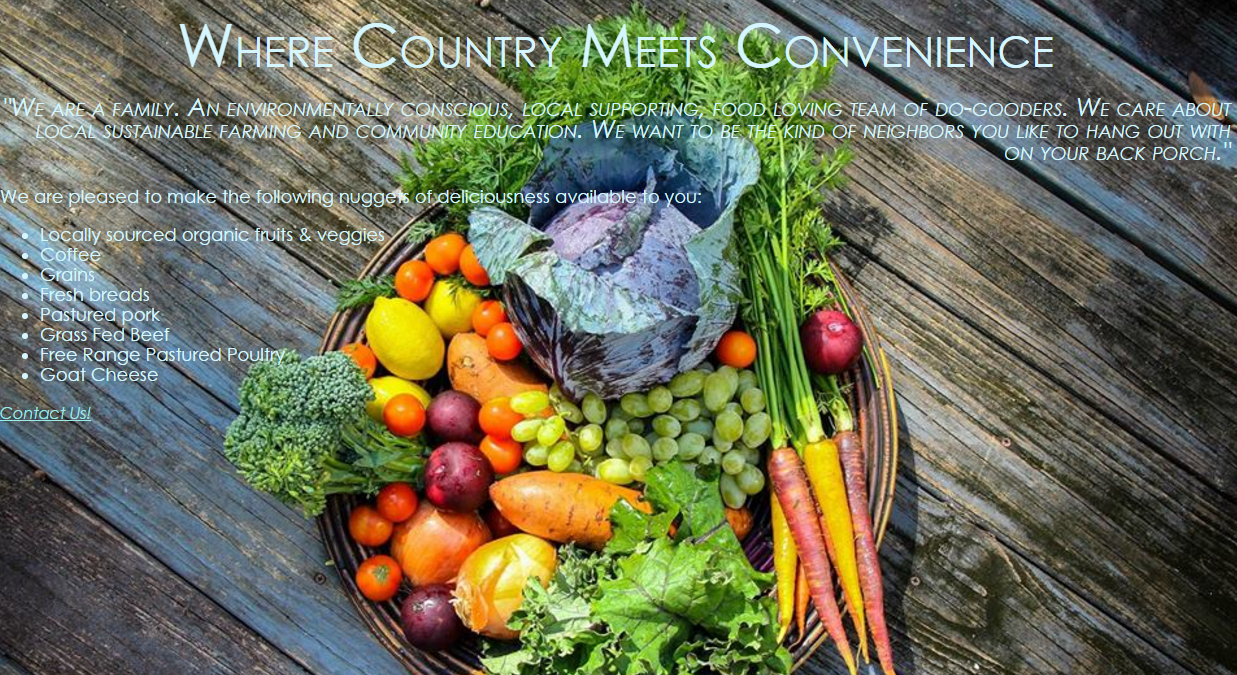
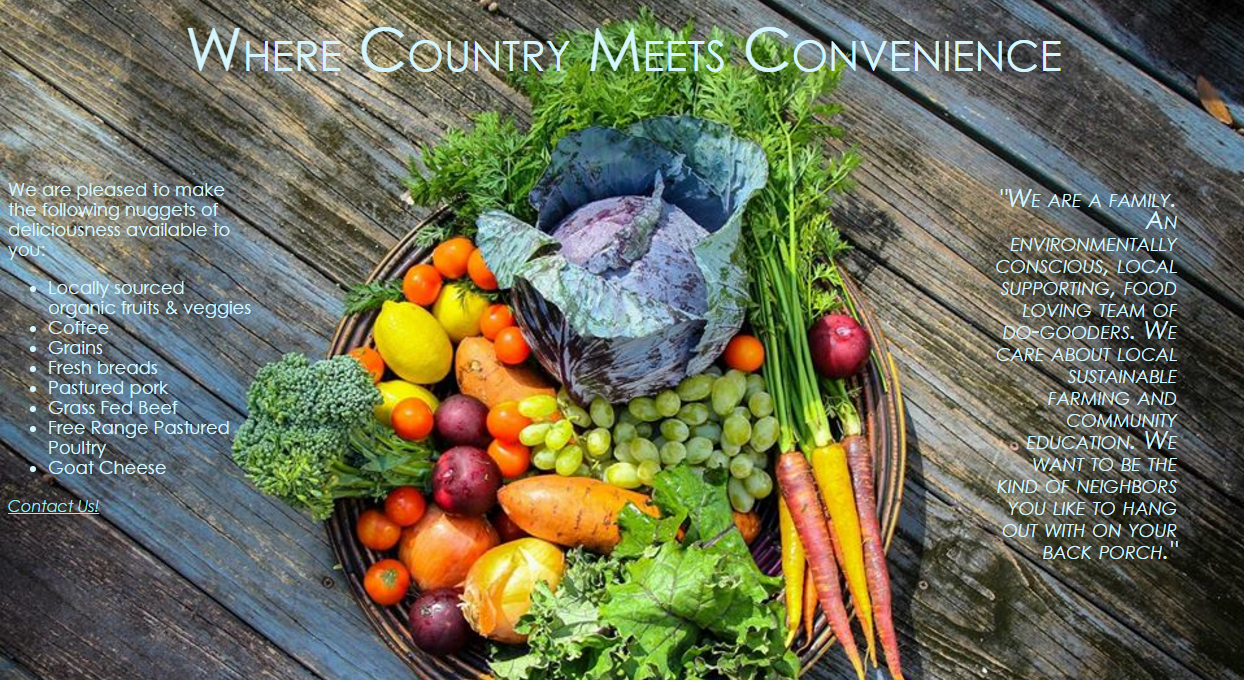
Formatting changes v.3

diff --git a/unit_3/css/style.css b/unit_3/css/style.css
@@ -8,7 +8,7 @@ body {
 h1 {
 	text-align: center;
 	font-family: "Century Gothic", sans-serif;
-	font-size: 60px;
+	font-size: 50px;
 	font-style: normal;
 	font-variant: small-caps;
 	font-weight: 400;
